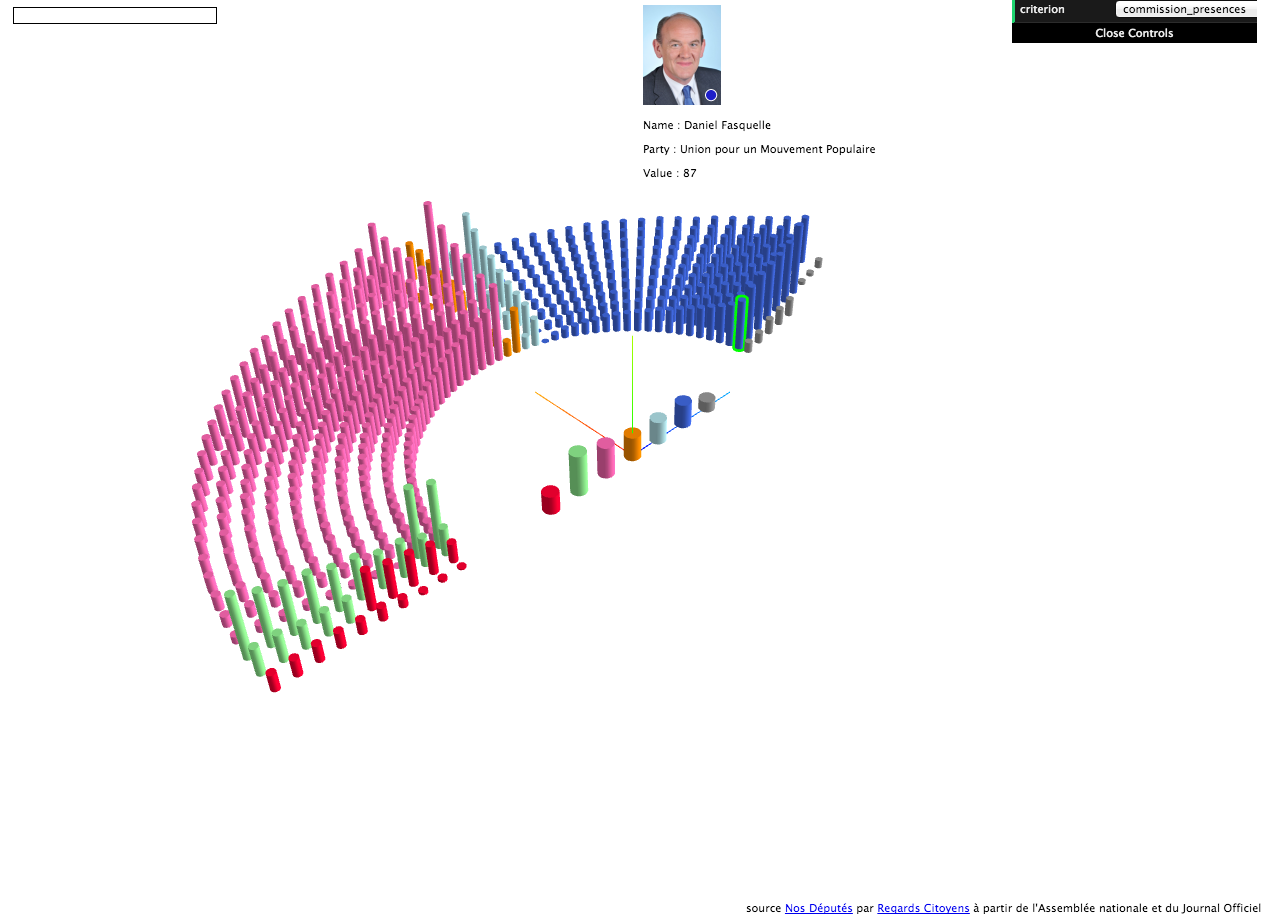
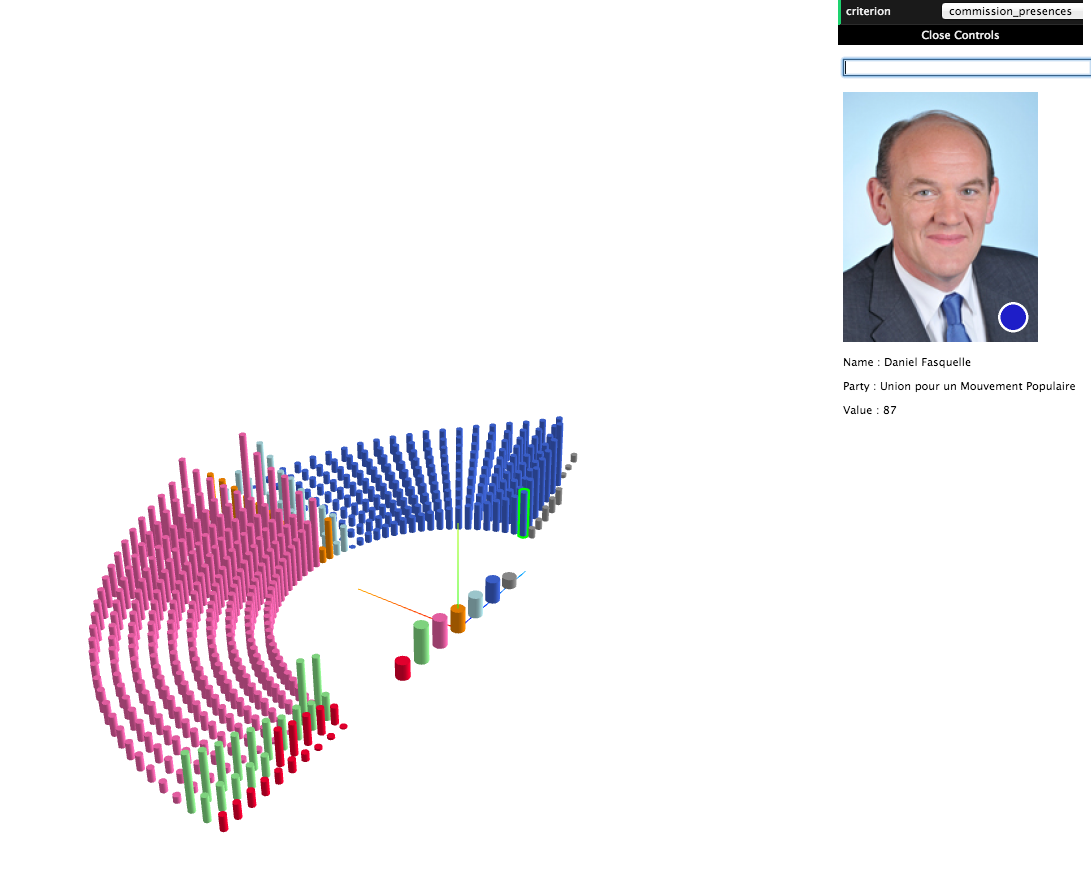
improve css (...)

diff --git a/public/js/nosdeputes.js b/public/js/nosdeputes.js
@@ -190,7 +190,7 @@
                     data: d
                 };
             }),
-            onSelect: function(suggestion){
+            onSelect: function (suggestion) {
                 selectDepute(suggestion.data);
             }
         });
@@ -425,12 +425,12 @@
 
     };
 
-    function selectDepute(depute, object){
+    function selectDepute(depute, object) {
         displaySelectedDepute(depute);
-        if(object){
+        if (object) {
             outlineSelectedShape(object);
-        }else {
-            outlineSelectedShape(_.find(targetList, function(obj){
+        } else {
+            outlineSelectedShape(_.find(targetList, function (obj) {
                 return obj.userData.depute.id === depute.id;
             }));
         }
@@ -438,7 +438,7 @@
     };
 
     function displaySelectedDepute(depute) {
-        $messageBoxImg.attr('src', 'http://www.nosdeputes.fr/depute/photo/' + depute.slug + '/100');
+        $messageBoxImg.attr('src', 'http://www.nosdeputes.fr/depute/photo/' + depute.slug + '/245');
         $messageBoxName.html(depute.nom);
         $messageBoxParty.html(depute.parti_ratt_financier);
         $messageBoxValue.html(depute[sortAttribute]);

diff --git a/public/css/style.css b/public/css/style.css
@@ -28,7 +28,9 @@ canvas {
     padding: 10px;
     font: 11px 'Lucida Grande', sans-serif;
     display: none;
-    left: 50%;
+    width: 245px;
+    top: 85px;
+    right: 0px;
 }
 
 /* search box */
@@ -37,18 +39,21 @@ canvas {
     position: fixed;
     padding: 10px;
     font: 11px 'Lucida Grande', sans-serif;
-    left: 10px;
+    right: 0px;
+    top: 50px;
+    width: 245px;
 }
 
 .search-box input {
     border: solid 1px black;
-    width: 200px;
+    width: 245px;
 }
 
 .autocomplete-suggestions {
     border: 1px solid #999;
     background: #FFF;
     overflow: auto;
+    font: 11px 'Lucida Grande', sans-serif;
 }
 
 .autocomplete-suggestion {
